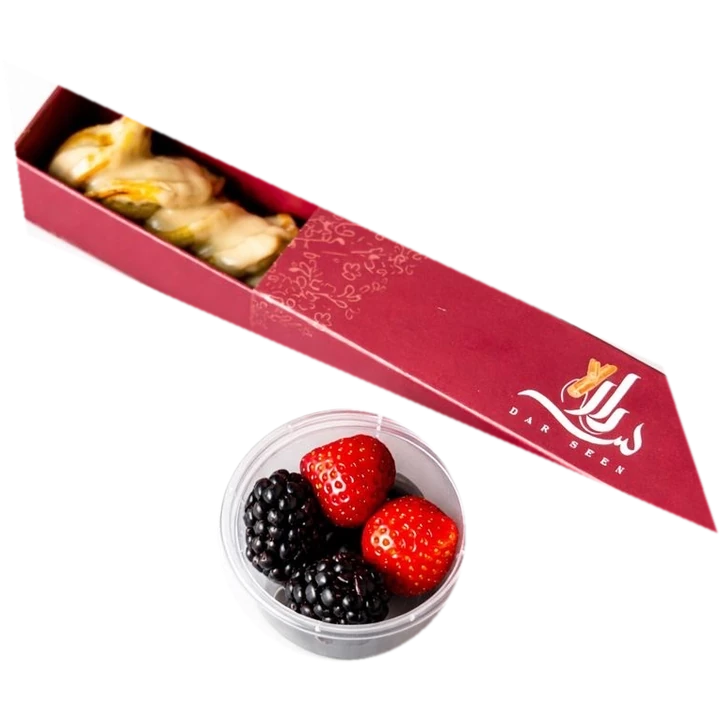
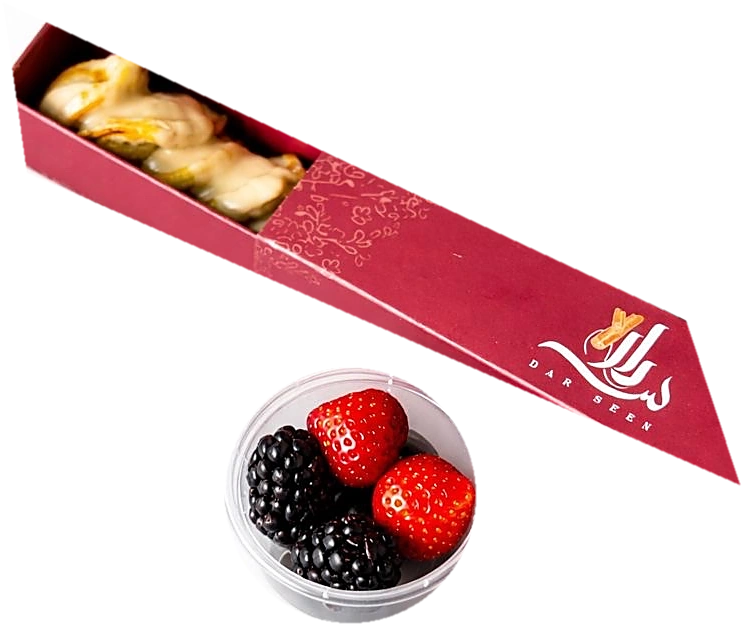
Sharpen the pancake and laban photos
Both are now cropped tight instead of padded into a square, so none of
the resolution is spent on empty margins, exported at quality 95 with a
light unsharp pass, and the laban is scaled up from source. Their masks
are pulled in a few pixels as well, which removes the white slivers that
were showing along the cup sides and the end of the box.

Claude-Session: https://claude.ai/code/session_01WzopeUKgTFhunNNdhCUZwL

Changed region(s): [[0.0, 0.0304, 1.0, 1.0]]

diff --git a/darseen/index.html b/darseen/index.html
@@ -222,7 +222,7 @@
       </div>
       <ul class="dishes">
         <li class="dish">
-          <img class="shot" loading="lazy" width="720" height="720"
+          <img class="shot" loading="lazy" width="743" height="626"
                alt="Mini pancakes in a maroon Darseen box with a cup of strawberries and blackberries"
                src="photos/pancakes.webp">
           <div class="name">Mini pancakes<span class="ar" dir="rtl" lang="ar">ميني بان كيك</span></div>
@@ -255,7 +255,7 @@
           <p>Mango and strawberry blended thick and cold, the fruit streaked through it. A Kuwaiti juice-stall drink whose name means <em>heartache</em> &mdash; nobody agrees why.</p>
         </li>
         <li class="dish">
-          <img class="shot" loading="lazy" width="720" height="720"
+          <img class="shot" loading="lazy" width="625" height="954"
                alt="Laban in a chilled steel tumbler, topped with foam and mint"
                src="photos/laban.webp">
           <div class="name">Laban<span class="ar" dir="rtl" lang="ar">لبن</span></div>
